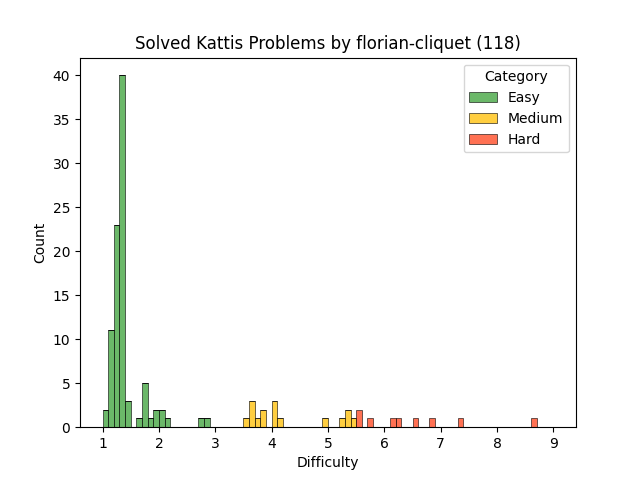
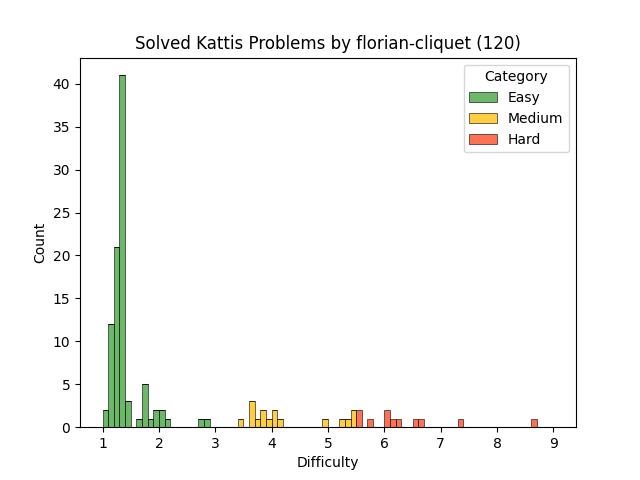
auto update

diff --git a/src/sammaeining.cpp b/src/sammaeining.cpp
@@ -1,0 +1,65 @@
+#include <bits/stdc++.h>
+using namespace std;
+#define FAST_IO ios_base::sync_with_stdio(false); cin.tie(nullptr); cout.tie(nullptr);
+#pragma GCC optimize("O3,unroll-loops")
+#pragma GCC optimize ("Ofast")
+#pragma GCC target("sse,sse2,sse3,ssse3,sse4,popcnt,abm,mmx,avx2,tune=native")
+typedef long long ll;
+const ll MOD = 1e9 + 7;
+
+// Function to compute power with modulo: result = base^exp % mod
+ll modPow(ll base, ll exp, ll mod) {
+    ll result = 1;
+    while (exp > 0) {
+        if (exp & 1) result = (result * base) % mod;
+        base = (base * base) % mod;
+        exp >>= 1;
+    }
+    return result;
+}
+
+// Main function to calculate the coefficient of x^7 modulo MOD
+ll calculateCoefficient(ll n) {
+    if (n < 10) {
+        /**
+         * Vector precoputed using the following formula:
+         * Z_7[X] = (1+x)(1+x²)(1+x³)...(1+x^n)
+         * Each value represents the coefficient of x^7 in the polynomial
+         * P_0[X] = 0, P_1[X] = 0 ... P_9[X] = 51
+         * Example for P_4[X]:
+         * P_4[X] = (1+x)(1+x²)(1+x³)(1+x⁴) = 1 + 2x³ + 2x⁴ + x⁵ + 2x⁷ + x⁸ + x⁹
+         * Soit le résultat est 2
+         */
+        return vector<ll>{0, 0, 0, 0, 2, 3, 6, 13, 25, 51}[n]; // Precomputed results
+    }
+
+    // k , r will be used to calculate the base answer
+    ll k = n / 5;
+    ll r = n % 5;
+
+    // Calculate the base answer using the derived formula:
+    // 32^k is used because the polynome grows exponentially for large n. The base 32 reflect the growth of the polynomial under modular arithmetic constraints.
+    // 2^k represents a correction factor that accounts for symmetries in the polynomial that arise from the periodicity modulo 5.
+    ll ans = (modPow(32, k, MOD) - modPow(2, k, MOD) + MOD) % MOD;
+    ans = (ans * modPow(5, MOD - 2, MOD)) % MOD;
+
+    // Adjust answer based on the remainder
+    // we double the result because the first leftover term modifies the coefficient in a predictable way
+    if (r >= 1)ans = (ans * 2) % MOD;
+    // We double and add correction because it add further complexity to the polynomial
+    if (r >= 2)ans = (ans * 2 + modPow(2, k, MOD)) % MOD;
+    // We double and substract correction because the third element has the opposite effect compared to the second
+    if (r >= 3)ans = (ans * 2 - modPow(2, k, MOD) + MOD) % MOD;
+    // We double the result again and add correction because the fourth element behaves like the second one
+    if (r >= 4)ans = (ans * 2 + modPow(2, k, MOD)) % MOD;
+    // normalized back to the correct scale by multiplying by the modular inverse of 2
+    ans = (ans * modPow(2, MOD - 2, MOD)) % MOD;
+    return ans;
+}
+
+int main() {
+    ll n;
+    cin >> n;
+    cout << calculateCoefficient(n) << endl;
+    return 0;
+}

diff --git a/src/fibsogdibs.cpp b/src/fibsogdibs.cpp
@@ -1,0 +1,67 @@
+#include <iostream>
+#include <vector>
+
+using namespace std;
+
+const int MOD = 1e9 + 7;
+
+typedef vector<vector<long long int>> Matrix;
+
+Matrix multiplyMatrices(const Matrix &A, const Matrix &B) {
+    Matrix result(2, vector<long long int>(2, 0));
+    for (int i = 0; i < 2; ++i) {
+        for (int j = 0; j < 2; ++j) {
+            for (int k = 0; k < 2; ++k) {
+                result[i][j] = (result[i][j] + (1LL * A[i][k] * B[k][j]) % MOD) % MOD;
+            }
+        }
+    }
+    return result;
+}
+
+Matrix exponentiationDichotomique(const Matrix &A, long long int n) {
+    if (n == 0) {
+        return {{1, 1},{1, 2}};
+    }
+    if (n == 1) {
+        return A;
+    }
+
+    if (n % 2 == 0) {
+        Matrix halfPower = exponentiationDichotomique(A, n / 2);
+        return multiplyMatrices(halfPower, halfPower);
+    } else {
+        return multiplyMatrices(A, exponentiationDichotomique(A, n - 1));
+    }
+}
+
+Matrix fibs_or_dibs(long long int n, long long int a, long long int b) {
+    Matrix A = {
+        {1, 1},
+        {1, 2}
+    };
+
+    Matrix B = {
+        {a},
+        {b},
+    };
+    
+    Matrix An_minus_2 = exponentiationDichotomique(A, n);
+
+    Matrix X = multiplyMatrices(An_minus_2, B);
+
+    return X;
+}
+
+int main() {
+    long long int a, b;
+    cin >> a >> b;
+    long long int n;
+    cin >> n;
+    if(n == 0)cout << a << " " << b << endl;
+    else{
+      Matrix result = fibs_or_dibs(n,a,b);
+      cout << result[0][0] << " " << result[1][0] << endl;
+    }
+    return 0;
+}

diff --git a/README.md b/README.md
@@ -1,6 +1,6 @@
 # Kattis Solutions
 
-## Total problems solved: 118
+## Total problems solved: 120
 
 ## Repartition chart
 ![Repartition chart](images/problem_difficulty_distribution.png)
@@ -16,13 +16,13 @@ Note that the tables below are auto-generated using a script.
 |[Amerískur vinnustaður](https://open.kattis.com/problems/ameriskur)|[![cpp](images/cpp.png)](src/ameriskur.cpp)|1.3|Easy|[Problem](https://open.kattis.com/problems/ameriskur)|
 |[Autori](https://open.kattis.com/problems/autori)|[![cpp](images/cpp.png)](src/autori.cpp)|1.2|Easy|[Problem](https://open.kattis.com/problems/autori)|
 |[Barcelona](https://open.kattis.com/problems/barcelona)|[![cpp](images/cpp.png)](src/barcelona.cpp)|1.3|Easy|[Problem](https://open.kattis.com/problems/barcelona)|
-|[Bazaar](https://open.kattis.com/problems/bazaar)|[![cpp](images/cpp.png)](src/bazaar.cpp)|5.2|Medium|[Problem](https://open.kattis.com/problems/bazaar)|
+|[Bazaar](https://open.kattis.com/problems/bazaar)|[![cpp](images/cpp.png)](src/bazaar.cpp)|5.3|Medium|[Problem](https://open.kattis.com/problems/bazaar)|
 |[BergMál](https://open.kattis.com/problems/bergmal)|[![cpp](images/cpp.png)](src/bergmal.cpp)|1.2|Easy|[Problem](https://open.kattis.com/problems/bergmal)|
 |[Besta gjöfin](https://open.kattis.com/problems/bestagjofin)|[![cpp](images/cpp.png)](src/bestagjofin.cpp)|1.3|Easy|[Problem](https://open.kattis.com/problems/bestagjofin)|
 |[Betting](https://open.kattis.com/problems/betting)|[![cpp](images/cpp.png)](src/betting.cpp)|1.3|Easy|[Problem](https://open.kattis.com/problems/betting)|
 |[Bijele](https://open.kattis.com/problems/bijele)|[![cpp](images/cpp.png)](src/bijele.cpp)|1.3|Easy|[Problem](https://open.kattis.com/problems/bijele)|
 |[Bitte ein Bit](https://open.kattis.com/problems/bitteeinbit)|[![cpp](images/cpp.png)](src/bitteeinbit.cpp)|1.3|Easy|[Problem](https://open.kattis.com/problems/bitteeinbit)|
-|[Blaðra](https://open.kattis.com/problems/bladra2)|[![cpp](images/cpp.png)](src/bladra2.cpp)|1.2|Easy|[Problem](https://open.kattis.com/problems/bladra2)|
+|[Blaðra](https://open.kattis.com/problems/bladra2)|[![cpp](images/cpp.png)](src/bladra2.cpp)|1.3|Easy|[Problem](https://open.kattis.com/problems/bladra2)|
 |[Blandað Best](https://open.kattis.com/problems/blandadbest)|[![cpp](images/cpp.png)](src/blandadbest.cpp)|1.2|Easy|[Problem](https://open.kattis.com/problems/blandadbest)|
 |[Bob](https://open.kattis.com/problems/bob)|[![cpp](images/cpp.png)](src/bob.cpp)|5.7|Medium|[Problem](https://open.kattis.com/problems/bob)|
 |[Book Shelves](https://open.kattis.com/problems/bokhyllor)|[![cpp](images/cpp.png)](src/bokhyllor.cpp)|3.6|Medium|[Problem](https://open.kattis.com/problems/bokhyllor)|
@@ -30,7 +30,7 @@ Note that the tables below are auto-generated using a script.
 |[Call for Problems](https://open.kattis.com/problems/callforproblems)|[![cpp](images/cpp.png)](src/callforproblems.cpp)|1.3|Easy|[Problem](https://open.kattis.com/problems/callforproblems)|
 |[Solving for Carrots](https://open.kattis.com/problems/carrots)|[![cpp](images/cpp.png)](src/carrots.cpp)|1.3|Easy|[Problem](https://open.kattis.com/problems/carrots)|
 |[Chanukah Challenge](https://open.kattis.com/problems/chanukah)|[![cpp](images/cpp.png)](src/chanukah.cpp)|1.3|Easy|[Problem](https://open.kattis.com/problems/chanukah)|
-|[Clinic](https://open.kattis.com/problems/clinic)|[![cpp](images/cpp.png)](src/clinic.cpp)|4.0|Medium|[Problem](https://open.kattis.com/problems/clinic)|
+|[Clinic](https://open.kattis.com/problems/clinic)|[![cpp](images/cpp.png)](src/clinic.cpp)|3.9|Medium|[Problem](https://open.kattis.com/problems/clinic)|
 |[Cold-puter Science](https://open.kattis.com/problems/cold)|[![cpp](images/cpp.png)](src/cold.cpp)|1.3|Easy|[Problem](https://open.kattis.com/problems/cold)|
 |[Cosmic Path Optimization](https://open.kattis.com/problems/cosmicpathoptimization)|[![cpp](images/cpp.png)](src/cosmicpathoptimization.cpp)|1.3|Easy|[Problem](https://open.kattis.com/problems/cosmicpathoptimization)|
 |[Costume Contest](https://open.kattis.com/problems/costumecontest)|[![cpp](images/cpp.png)](src/costumecontest.cpp)|1.9|Easy|[Problem](https://open.kattis.com/problems/costumecontest)|
@@ -44,10 +44,11 @@ Note that the tables below are auto-generated using a script.
 |[Eksplozija](https://open.kattis.com/problems/eksplozija)|[![cpp](images/cpp.png)](src/eksplozija.cpp)|7.3|Hard|[Problem](https://open.kattis.com/problems/eksplozija)|
 |[Factstone Benchmark](https://open.kattis.com/problems/factstone)|[![cpp](images/cpp.png)](src/factstone.cpp)|4.0|Medium|[Problem](https://open.kattis.com/problems/factstone)|
 |[Färgrobot](https://open.kattis.com/problems/fargrobot)|[![cpp](images/cpp.png)](src/fargrobot.cpp)|1.7|Easy|[Problem](https://open.kattis.com/problems/fargrobot)|
+|[Fibs og Dibs](https://open.kattis.com/problems/fibsogdibs)|[![cpp](images/cpp.png)](src/fibsogdibs.cpp)|6.0|Hard|[Problem](https://open.kattis.com/problems/fibsogdibs)|
 |[Framtíðar FIFA](https://open.kattis.com/problems/fifa)|[![cpp](images/cpp.png)](src/fifa.cpp)|1.1|Easy|[Problem](https://open.kattis.com/problems/fifa)|
 |[Finding An A](https://open.kattis.com/problems/findingana)|[![cpp](images/cpp.png)](src/findingana.cpp)|1.2|Easy|[Problem](https://open.kattis.com/problems/findingana)|
-|[Flatbökuveisla](https://open.kattis.com/problems/flatbokuveisla)|[![cpp](images/cpp.png)](src/flatbokuveisla.cpp)|1.2|Easy|[Problem](https://open.kattis.com/problems/flatbokuveisla)|
-|[Framvindustika](https://open.kattis.com/problems/framvindustika)|[![cpp](images/cpp.png)](src/framvindustika.cpp)|3.5|Medium|[Problem](https://open.kattis.com/problems/framvindustika)|
+|[Flatbökuveisla](https://open.kattis.com/problems/flatbokuveisla)|[![cpp](images/cpp.png)](src/flatbokuveisla.cpp)|1.1|Easy|[Problem](https://open.kattis.com/problems/flatbokuveisla)|
+|[Framvindustika](https://open.kattis.com/problems/framvindustika)|[![cpp](images/cpp.png)](src/framvindustika.cpp)|3.4|Medium|[Problem](https://open.kattis.com/problems/framvindustika)|
 |[Frogger](https://open.kattis.com/problems/frogger)|[![cpp](images/cpp.png)](src/frogger.cpp)|5.5|Medium|[Problem](https://open.kattis.com/problems/frogger)|
 |[FYI](https://open.kattis.com/problems/fyi)|[![cpp](images/cpp.png)](src/fyi.cpp)|1.3|Easy|[Problem](https://open.kattis.com/problems/fyi)|
 |[Greedily Increasing Subsequence](https://open.kattis.com/problems/greedilyincreasing)|[![cpp](images/cpp.png)](src/greedilyincreasing.cpp)|1.9|Easy|[Problem](https://open.kattis.com/problems/greedilyincreasing)|
@@ -68,7 +69,7 @@ Note that the tables below are auto-generated using a script.
 |[Kemija](https://open.kattis.com/problems/kemija)|[![cpp](images/cpp.png)](src/kemija.cpp)|8.6|Hard|[Problem](https://open.kattis.com/problems/kemija)|
 |[Keys, Phone, Wallet](https://open.kattis.com/problems/keysphonewallet)|[![cpp](images/cpp.png)](src/keysphonewallet.cpp)|1.3|Easy|[Problem](https://open.kattis.com/problems/keysphonewallet)|
 |[Kiki Boba](https://open.kattis.com/problems/kikiboba)|[![cpp](images/cpp.png)](src/kikiboba.cpp)|1.3|Easy|[Problem](https://open.kattis.com/problems/kikiboba)|
-|[Cutting Proteins](https://open.kattis.com/problems/klippaprotein)|[![cpp](images/cpp.png)](src/klippaprotein.cpp)|5.3|Medium|[Problem](https://open.kattis.com/problems/klippaprotein)|
+|[Cutting Proteins](https://open.kattis.com/problems/klippaprotein)|[![cpp](images/cpp.png)](src/klippaprotein.cpp)|5.2|Medium|[Problem](https://open.kattis.com/problems/klippaprotein)|
 |[Knight Packing](https://open.kattis.com/problems/knightpacking)|[![cpp](images/cpp.png)](src/knightpacking.cpp)|1.3|Easy|[Problem](https://open.kattis.com/problems/knightpacking)|
 |[Codforces](https://open.kattis.com/problems/kodkraft)|[![cpp](images/cpp.png)](src/kodkraft.cpp)|5.4|Medium|[Problem](https://open.kattis.com/problems/kodkraft)|
 |[Kveðja](https://open.kattis.com/problems/kvedja)|[![cpp](images/cpp.png)](src/kvedja.cpp)|1.1|Easy|[Problem](https://open.kattis.com/problems/kvedja)|
@@ -82,7 +83,7 @@ Note that the tables below are auto-generated using a script.
 |[Mravojed](https://open.kattis.com/problems/mravojed)|[![cpp](images/cpp.png)](src/mravojed.cpp)|6.5|Hard|[Problem](https://open.kattis.com/problems/mravojed)|
 |[Multiplication Table](https://open.kattis.com/problems/multtable)|[![cpp](images/cpp.png)](src/multtable.cpp)|3.6|Medium|[Problem](https://open.kattis.com/problems/multtable)|
 |[Nasty Hacks](https://open.kattis.com/problems/nastyhacks)|[![cpp](images/cpp.png)](src/nastyhacks.cpp)|1.3|Easy|[Problem](https://open.kattis.com/problems/nastyhacks)|
-|[N-sum](https://open.kattis.com/problems/nsum)|[![cpp](images/cpp.png)](src/nsum.cpp)|1.2|Easy|[Problem](https://open.kattis.com/problems/nsum)|
+|[N-sum](https://open.kattis.com/problems/nsum)|[![cpp](images/cpp.png)](src/nsum.cpp)|1.3|Easy|[Problem](https://open.kattis.com/problems/nsum)|
 |[Odd Echo](https://open.kattis.com/problems/oddecho)|[![cpp](images/cpp.png)](src/oddecho.cpp)|1.3|Easy|[Problem](https://open.kattis.com/problems/oddecho)|
 |[Oddities](https://open.kattis.com/problems/oddities)|[![cpp](images/cpp.png)](src/oddities.cpp)|1.3|Easy|[Problem](https://open.kattis.com/problems/oddities)|
 |[Öfugsnúið](https://open.kattis.com/problems/ofugsnuid)|[![cpp](images/cpp.png)](src/ofugsnuid.cpp)|1.6|Easy|[Problem](https://open.kattis.com/problems/ofugsnuid)|
@@ -98,6 +99,7 @@ Note that the tables below are auto-generated using a script.
 |[R2](https://open.kattis.com/problems/r2)|[![cpp](images/cpp.png)](src/r2.cpp)|1.3|Easy|[Problem](https://open.kattis.com/problems/r2)|
 |[Rating Problems](https://open.kattis.com/problems/ratingproblems)|[![cpp](images/cpp.png)](src/ratingproblems.cpp)|1.4|Easy|[Problem](https://open.kattis.com/problems/ratingproblems)|
 |[Reduplication](https://open.kattis.com/problems/reduplikation)|[![cpp](images/cpp.png)](src/reduplikation.cpp)|1.1|Easy|[Problem](https://open.kattis.com/problems/reduplikation)|
+|[Sammaeining](https://open.kattis.com/problems/sammaeining)|[![cpp](images/cpp.png)](src/sammaeining.cpp)|6.0|Hard|[Problem](https://open.kattis.com/problems/sammaeining)|
 |[Shandy](https://open.kattis.com/problems/shandy)|[![cpp](images/cpp.png)](src/shandy.cpp)|1.3|Easy|[Problem](https://open.kattis.com/problems/shandy)|
 |[A Shortcut to What?](https://open.kattis.com/problems/shortcuttowhat)|[![cpp](images/cpp.png)](src/shortcuttowhat.cpp)|1.2|Easy|[Problem](https://open.kattis.com/problems/shortcuttowhat)|
 |[Silueta](https://open.kattis.com/problems/silueta)|[![cpp](images/cpp.png)](src/silueta.cpp)|4.9|Medium|[Problem](https://open.kattis.com/problems/silueta)|
@@ -107,18 +109,18 @@ Note that the tables below are auto-generated using a script.
 |[Stamp Combinations](https://open.kattis.com/problems/stampcombinations)|[![cpp](images/cpp.png)](src/stampcombinations.cpp)|5.5|Medium|[Problem](https://open.kattis.com/problems/stampcombinations)|
 |[Stórafmæli](https://open.kattis.com/problems/storafmaeli)|[![cpp](images/cpp.png)](src/storafmaeli.cpp)|1.2|Easy|[Problem](https://open.kattis.com/problems/storafmaeli)|
 |[Studentsko](https://open.kattis.com/problems/studentsko)|[![cpp](images/cpp.png)](src/studentsko.cpp)|3.8|Medium|[Problem](https://open.kattis.com/problems/studentsko)|
-|[Sunshine](https://open.kattis.com/problems/sunshine)|[![c](images/c.png)](src/sunshine.c) [![cpp](images/cpp.png)](src/sunshine.cpp)|5.3|Medium|[Problem](https://open.kattis.com/problems/sunshine)|
+|[Sunshine](https://open.kattis.com/problems/sunshine)|[![c](images/c.png)](src/sunshine.c) [![cpp](images/cpp.png)](src/sunshine.cpp)|5.4|Medium|[Problem](https://open.kattis.com/problems/sunshine)|
 |[Symmetric Order](https://open.kattis.com/problems/symmetricorder)|[![cpp](images/cpp.png)](src/symmetricorder.cpp)|1.7|Easy|[Problem](https://open.kattis.com/problems/symmetricorder)|
 |[Takkar](https://open.kattis.com/problems/takkar)|[![cpp](images/cpp.png)](src/takkar.cpp)|1.2|Easy|[Problem](https://open.kattis.com/problems/takkar)|
 |[Takk fyrir mig](https://open.kattis.com/problems/takkfyrirmig)|[![cpp](images/cpp.png)](src/takkfyrirmig.cpp)|1.2|Easy|[Problem](https://open.kattis.com/problems/takkfyrirmig)|
 |[Talnalás](https://open.kattis.com/problems/talnalas)|[![cpp](images/cpp.png)](src/talnalas.cpp)|3.8|Medium|[Problem](https://open.kattis.com/problems/talnalas)|
 |[Tarifa](https://open.kattis.com/problems/tarifa)|[![cpp](images/cpp.png)](src/tarifa.cpp)|1.3|Easy|[Problem](https://open.kattis.com/problems/tarifa)|
-|[Teningasafn](https://open.kattis.com/problems/teningasafn)|[![cpp](images/cpp.png)](src/teningasafn.cpp)|6.8|Hard|[Problem](https://open.kattis.com/problems/teningasafn)|
+|[Teningasafn](https://open.kattis.com/problems/teningasafn)|[![cpp](images/cpp.png)](src/teningasafn.cpp)|6.6|Hard|[Problem](https://open.kattis.com/problems/teningasafn)|
 |[Three Digits](https://open.kattis.com/problems/threedigits)|[![cpp](images/cpp.png)](src/threedigits.cpp)|6.1|Hard|[Problem](https://open.kattis.com/problems/threedigits)|
 |[Til hamingju](https://open.kattis.com/problems/tilhamingju)|[![cpp](images/cpp.png)](src/tilhamingju.cpp)|1.0|Easy|[Problem](https://open.kattis.com/problems/tilhamingju)|
 |[Stuck In A Time Loop](https://open.kattis.com/problems/timeloop)|[![cpp](images/cpp.png)](src/timeloop.cpp)|1.3|Easy|[Problem](https://open.kattis.com/problems/timeloop)|
 |[Tölvunarfræðingar telja](https://open.kattis.com/problems/tolvunarfraedingartelja)|[![cpp](images/cpp.png)](src/tolvunarfraedingartelja.cpp)|1.1|Easy|[Problem](https://open.kattis.com/problems/tolvunarfraedingartelja)|
-|[Triangle Area](https://open.kattis.com/problems/triarea)|[![cpp](images/cpp.png)](src/triarea.cpp)|1.3|Easy|[Problem](https://open.kattis.com/problems/triarea)|
+|[Triangle Area](https://open.kattis.com/problems/triarea)|[![cpp](images/cpp.png)](src/triarea.cpp)|1.2|Easy|[Problem](https://open.kattis.com/problems/triarea)|
 |[Triolingo Push](https://open.kattis.com/problems/triolingopush)|[![cpp](images/cpp.png)](src/triolingopush.cpp)|6.2|Hard|[Problem](https://open.kattis.com/problems/triolingopush)|
 |[Take Two Stones](https://open.kattis.com/problems/twostones)|[![cpp](images/cpp.png)](src/twostones.cpp)|1.2|Easy|[Problem](https://open.kattis.com/problems/twostones)|
 |[Two-sum](https://open.kattis.com/problems/twosum)|[![cpp](images/cpp.png)](src/twosum.cpp)|1.2|Easy|[Problem](https://open.kattis.com/problems/twosum)|
